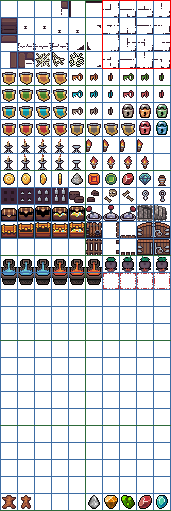
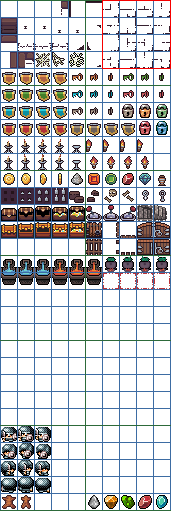
Added a component that changes monster appearance depending on its motion.

Changed region(s): [[0.0, 0.8219, 0.2924, 0.9687]]

diff --git a/LuckNGold/World/Monsters/Components/MovableAppearanceComponent.cs b/LuckNGold/World/Monsters/Components/MovableAppearanceComponent.cs
@@ -1,0 +1,79 @@
+using LuckNGold.World.Monsters.Interfaces;
+using SadRogue.Integration;
+using SadRogue.Integration.Components;
+
+namespace LuckNGold.World.Monsters.Components;
+
+internal class MovableAppearanceComponent : 
+    RogueLikeComponentBase<RogueLikeEntity>, IMovableAppearance
+{
+    public ColoredGlyph[] Appearances { get; }
+
+    Direction _currentDirection = Direction.None;
+    int _currentFrame = 0;
+
+    public MovableAppearanceComponent(ColoredGlyph[] appearances) :
+        base(false, false, false, false)
+    {
+        if (appearances.Length != 12)
+            throw new ArgumentException("There needs to be exactly 12 frames of appearances.");
+
+        Appearances = appearances;
+    }
+
+    public void UpdateAppearance(Direction direction)
+    {
+        if (Parent == null)
+            throw new InvalidOperationException("Component needs to be attached to an entity.");
+
+        if (Parent.CurrentMap == null)
+            //throw new InvalidOperationException("Parent has to be on the map.");
+            return;
+
+        direction =
+            direction.DeltaX < 0 ? Direction.Left :
+            direction.DeltaX > 0 ? Direction.Right :
+            direction.DeltaY < 0 ? Direction.Up :
+            direction.DeltaY > 0 ? Direction.Down :
+            Direction.None;
+
+        if (_currentDirection != direction)
+        {
+            _currentDirection = direction;
+            _currentFrame = 0;
+        }
+        else
+        {
+            if (++_currentFrame > 2)
+                _currentFrame = 0;
+        }
+
+        int appearanceIndex = _currentDirection.Type switch
+        {
+            Direction.Types.Left => 3,
+            Direction.Types.Right => 6,
+            Direction.Types.Up => 9,
+            _ => 0,
+        };
+
+        var appearance = Appearances[appearanceIndex + _currentFrame];
+        appearance.CopyAppearanceTo(Parent.AppearanceSingle!.Appearance);
+    }
+
+    void ScreenObject_OnPositionChanged(object? o, ValueChangedEventArgs<Point> e)
+    {
+        UpdateAppearance(Direction.GetDirection(e.OldValue, e.NewValue));
+    }
+
+    public override void OnAdded(IScreenObject host)
+    {
+        base.OnAdded(host);
+        host.PositionChanged += ScreenObject_OnPositionChanged;
+    }
+
+    public override void OnRemoved(IScreenObject host)
+    {
+        base.OnRemoved(host);
+        host.PositionChanged -= ScreenObject_OnPositionChanged;
+    }
+}

diff --git a/LuckNGold/World/Monsters/MonsterFactory.cs b/LuckNGold/World/Monsters/MonsterFactory.cs
@@ -8,10 +8,26 @@ static class MonsterFactory
 {
     public static RogueLikeEntity Player()
     {
-        var player = new RogueLikeEntity(2, false, layer: (int)GameMap.Layer.Monsters)
+        var player = new RogueLikeEntity(251, false, layer: (int)GameMap.Layer.Monsters)
         {
             Name = "Player"
         };
+
+        ColoredGlyph[] appearances = [
+            new(Color.White, Color.Transparent, 250),
+            new(Color.White, Color.Transparent, 251),
+            new(Color.White, Color.Transparent, 252),
+            new(Color.White, Color.Transparent, 260),
+            new(Color.White, Color.Transparent, 261),
+            new(Color.White, Color.Transparent, 262),
+            new(Color.White, Color.Transparent, 270),
+            new(Color.White, Color.Transparent, 271),
+            new(Color.White, Color.Transparent, 272),
+            new(Color.White, Color.Transparent, 280),
+            new(Color.White, Color.Transparent, 281),
+            new(Color.White, Color.Transparent, 282),
+        ];
+        player.AllComponents.Add(new MovableAppearanceComponent(appearances));
 
         // Add inventory component
         player.AllComponents.Add(new InventoryComponent(20));

diff --git a/LuckNGold/Resources/Strings.Designer.cs b/LuckNGold/Resources/Strings.Designer.cs
@@ -133,7 +133,7 @@ namespace LuckNGold.Resources {
         }
         
         /// <summary>
-        ///   Looks up a localized string similar to A rusted iron #0candle #0stand, tall and twisted like a skeletal limb, stands silent. A thick layer of congealed, black soot coats its surface, testimony to countless past burnt wicks. The stand is empty, save for a few flakes of ancient, #1dark #1wax stuck stubbornly to the top..
+        ///   Looks up a localized string similar to A rusted iron #0candle #0stand, tall and twisted like a skeletal limb, stands silent. A thick layer of congealed, black soot coats its surface, testimony to countless past burnt wicks. The stand is #1empty, save for a few flakes of ancient, dark wax stuck stubbornly to the top..
         /// </summary>
         internal static string CandleStandDescription {
             get {

diff --git a/LuckNGold/Visuals/Screens/RootScreen.cs b/LuckNGold/Visuals/Screens/RootScreen.cs
@@ -34,6 +34,10 @@ internal class RootScreen : ScreenObject
         Environment.Exit(0);
     }
 
+    /// <summary>
+    /// Shows screen of selected type.
+    /// </summary>
+    /// <typeparam name="T">Type of screen to be selected.</typeparam>
     public void Show<T>() where T : MenuScreen
     {
         Children.Clear();
@@ -62,7 +66,7 @@ internal class RootScreen : ScreenObject
         }
     }
 
-    IEnumerable<Screen> Screens
+    IEnumerable<IScreen> Screens
     {
         get
         {

diff --git a/LuckNGold/Program.cs b/LuckNGold/Program.cs
@@ -35,9 +35,14 @@ static class Program
                 .SetScreenSize(Width, Height)
                 .ConfigureFonts(FontLoader)
                 .SetStartingScreen<RootScreen>();
-
-        // Setup the engine and start the game
+        
+        // Setup the engine.
         Game.Create(builder);
+
+        // Reduce key pressed delay.
+        Game.Instance.Keyboard.InitialRepeatDelay = 0.2f;
+
+        // Start the game.
         Game.Instance.Run();
         Game.Instance.Dispose();
     }

diff --git a/LuckNGold/Visuals/Screens/SettingsScreen.cs b/LuckNGold/Visuals/Screens/SettingsScreen.cs
@@ -7,7 +7,7 @@ internal class SettingsScreen : MenuScreen
 {
     public const string ArrowButtonsText = "Arrow  Buttons";
     public const string NumpadButtonsText = "Numpad Buttons";
-    public const string WasdButtonsText = "AWSD   Buttons";
+    public const string WasdButtonsText = "WASD   Buttons";
     public const string ViButtonsText = "HJKL   Buttons";
 
     public SettingsScreen(RootScreen rootScreen) : base(rootScreen)

diff --git a/LuckNGold/Visuals/Screens/GameScreen.cs b/LuckNGold/Visuals/Screens/GameScreen.cs
@@ -11,7 +11,7 @@ namespace LuckNGold.Visuals.Screens;
 /// Main game screen that is displayed once the generation is complete.
 /// It contains the map and various information windows. 
 /// </summary>
-partial class GameScreen : ScreenObject, Screen
+partial class GameScreen : ScreenObject, IScreen
 {
     // Window that shows player's quick access inventory
     readonly QuickAccessWindow _quickAccessWindow;

diff --git a/LuckNGold/Visuals/Screens/MenuScreen.cs b/LuckNGold/Visuals/Screens/MenuScreen.cs
@@ -4,7 +4,7 @@ using SadConsole.UI.Controls;
 
 namespace LuckNGold.Visuals.Screens;
 
-abstract class MenuScreen : ControlsConsole, Screen
+abstract class MenuScreen : ControlsConsole, IScreen
 {
     /// <summary>
     /// Vertical spacing between controls.

diff --git a/LuckNGold/Visuals/Windows/EntityInfoWindow.cs b/LuckNGold/Visuals/Windows/EntityInfoWindow.cs
@@ -3,6 +3,9 @@ using System.Text;
 
 namespace LuckNGold.Visuals.Windows;
 
+/// <summary>
+/// Window that display info about an entity selected with a pointer.
+/// </summary>
 internal class EntityInfoWindow : Window
 {
     const int DesiredWidth = 30;

diff --git a/LuckNGold/World/Monsters/Interfaces/IMovableAppearance.cs b/LuckNGold/World/Monsters/Interfaces/IMovableAppearance.cs
@@ -1,0 +1,9 @@
+namespace LuckNGold.World.Monsters.Interfaces;
+
+/// <summary>
+/// It can change its appearance depending on motion.
+/// </summary>
+internal interface IMovableAppearance
+{
+    void UpdateAppearance(Direction direction);
+}

diff --git a/LuckNGold/Visuals/Screens/IScreen.cs b/LuckNGold/Visuals/Screens/IScreen.cs
@@ -2,7 +2,7 @@
 
 namespace LuckNGold.Visuals.Screens;
 
-interface Screen
+interface IScreen
 {
     void UpdateKeybindings(CheckBox checkBox);
 }
